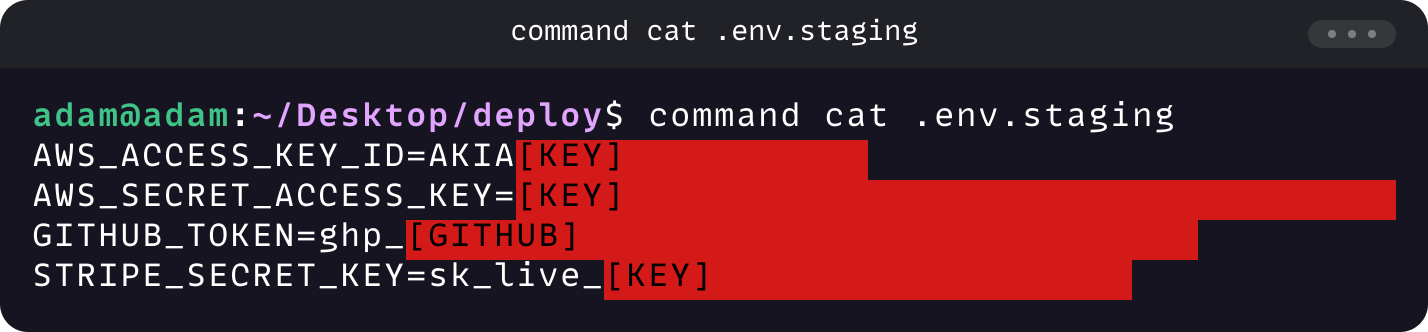
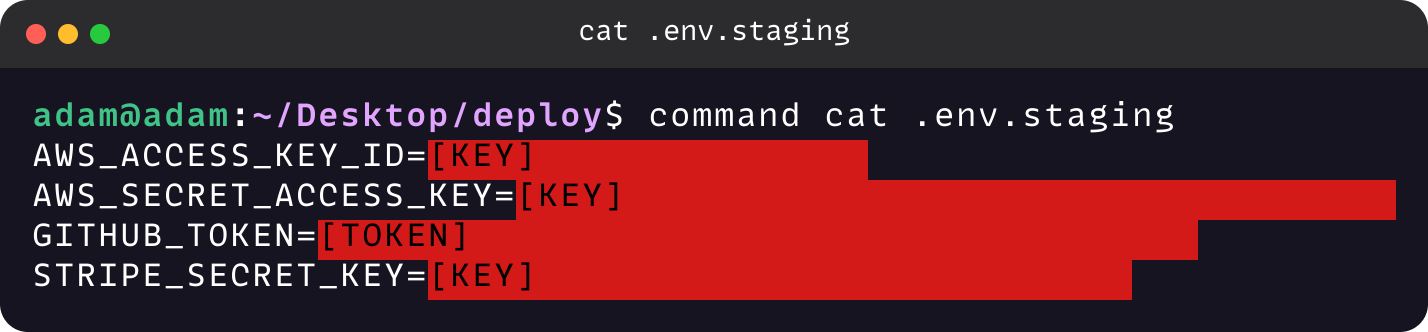
docs: showcase macOS chrome in redaction example

diff --git a/README.md b/README.md
@@ -40,11 +40,12 @@ termshot exec 'git log --graph --oneline --color=always -n 6'
 the caller keeps the originals. See [docs/redaction.md](./docs/redaction.md).
 
 <p align="center">
-  <img src="docs/assets/redaction.png" alt="Screenshot of command cat .env.staging in a GNOME window. The variable names AWS_ACCESS_KEY_ID, AWS_SECRET_ACCESS_KEY, GITHUB_TOKEN, and STRIPE_SECRET_KEY remain visible while their values are masked by red blocks. The prefixes AKIA, ghp_, and sk_live_ remain visible to identify each secret type." width="700">
+  <img src="docs/assets/redaction.png" alt="Screenshot of command cat .env.staging in a macOS-style window. The variable names AWS_ACCESS_KEY_ID, AWS_SECRET_ACCESS_KEY, GITHUB_TOKEN, and STRIPE_SECRET_KEY remain visible while their values are masked by labeled red blocks." width="700">
 </p>
 
 ```sh
-termshot exec --redact --chrome gnome 'command cat .env.staging'
+termshot exec --redact --chrome macos --title 'cat .env.staging' \
+  'command cat .env.staging'
 ```
 
 **Themes** - 11 built-in, plus your own in `~/.config/termshot/themes/`.
